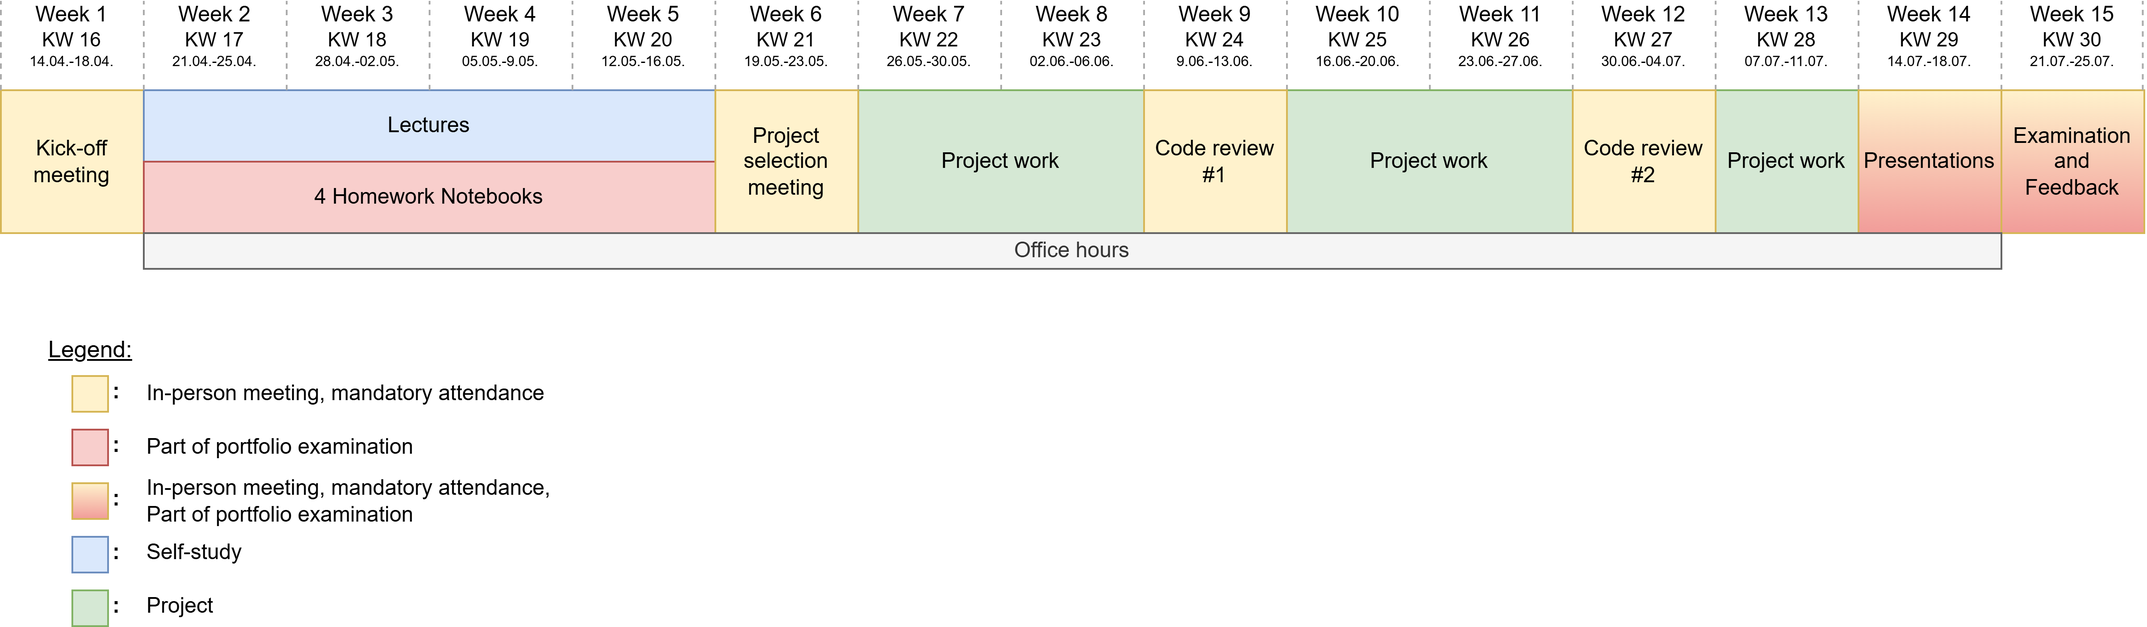
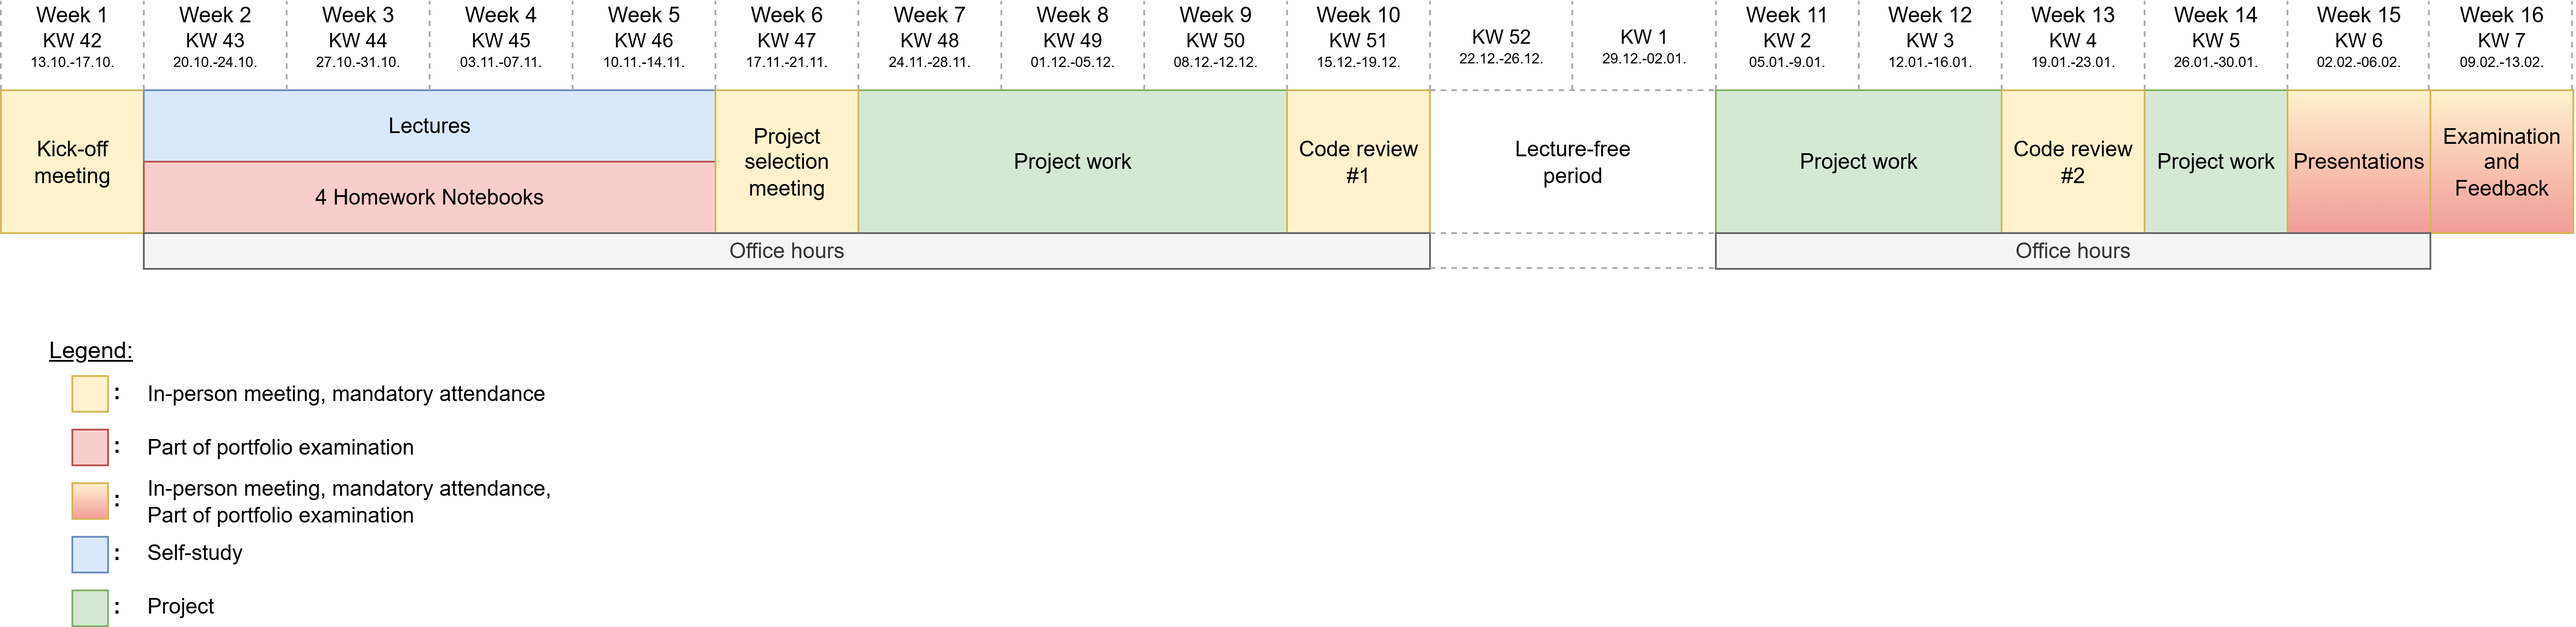
Update dates and timeline

diff --git a/website/_layout/sidebar.html b/website/_layout/sidebar.html
@@ -5,7 +5,7 @@
       <p class="lead">
         Julia Programming<br>
         for Machine Learning<br>
-        SoSe 2025 @ TU Berlin.</p>
+        WiSe 25/26 @ TU Berlin.</p>
     </div>
     <div class="sidebar-nav-section">Course overview</div>
       <a class="sidebar-nav-item {{ispage /}}active{{end}}" href="/">General Information</a>

diff --git a/website/index.md b/website/index.md
@@ -100,7 +100,6 @@ During code review sessions, students give each other feedback on their projects
 before presenting their work in end-of-semester presentations.
 
 ## Information for TU Berlin students 
-Starting in summer 2024, JuML is an stand-alone 6 ECTS / 6 LP course.
 
 Homework assignments must be submitted every week. 
 You must be enrolled on ISIS to submit homework. 
@@ -108,18 +107,18 @@ If you do not register on time, you cannot pass the course.
 
 ![JuML course timeline](/assets/timeline.png)
 
-* **Course Period:**  April 14th 2025 - July 19th 2025
-  * **Kick-off meeting:** Tuesday, April 15th, 16:15-17:45, MAR 0.016
-  * **Project meetings:** Tuesdays, 16:15-17:45, MAR 0.016
+* **Course Period:**  October 14th 2025 - February 10th 2026
+  * **Kick-off meeting:** Tuesday, October 14th, 16:15-17:45, MA 0.42
+  * **Project meetings:** Tuesdays, 16:15-17:45, MAR 0.011
   * **Office hours:** TBA
 
 Attendance is mandatory on the following dates:
-* Tuesday, 15.04.25
-* Tuesday, 20.05.25
-* Tuesday, 10.06.25
-* Tuesday, 01.07.25
-* Tuesday, 15.07.25
-* Tuesday, 22.07.25
+* Tuesday, 14.10.25
+* Tuesday, 18.11.25
+* Tuesday, 16.12.25
+* Tuesday, 20.01.25
+* Tuesday, 03.02.26
+* Tuesday, 10.02.26
 
 The date of the final examination will be determined on a group-by-group basis.
 

diff --git a/README.md b/README.md
@@ -95,7 +95,7 @@ before presenting their work in end-of-semester presentations.
 
 [site-url]: https://adrhill.github.io/julia-ml-course/
 [ml-group-url]: https://web.ml.tu-berlin.de
-[isis-url]: https://isis.tu-berlin.de/course/view.php?id=43325
+[isis-url]: https://isis.tu-berlin.de/course/view.php?id=44767
 
 [goto-badge]: https://img.shields.io/badge/-Go%20to%20course%20website-informational
 [isis-badge]: https://img.shields.io/badge/TU%20Berlin-ISIS%20page-red
